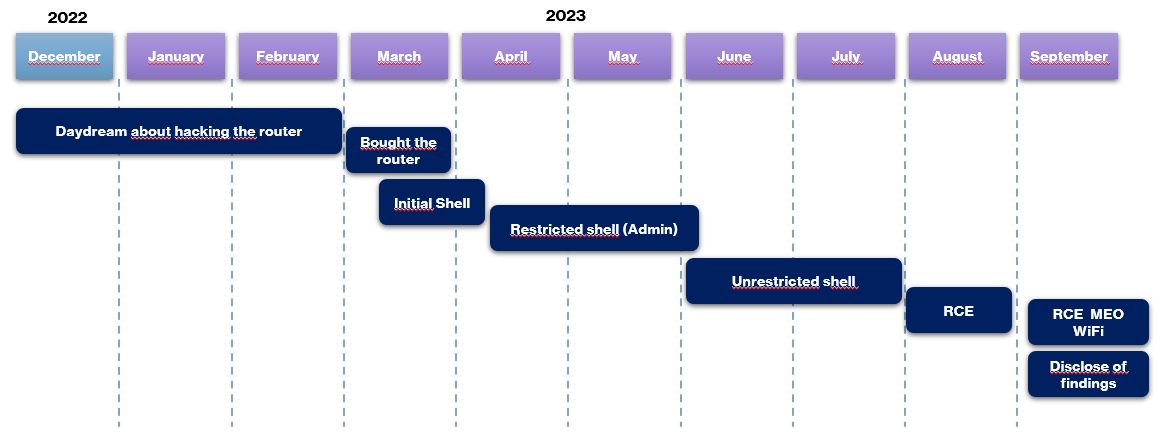
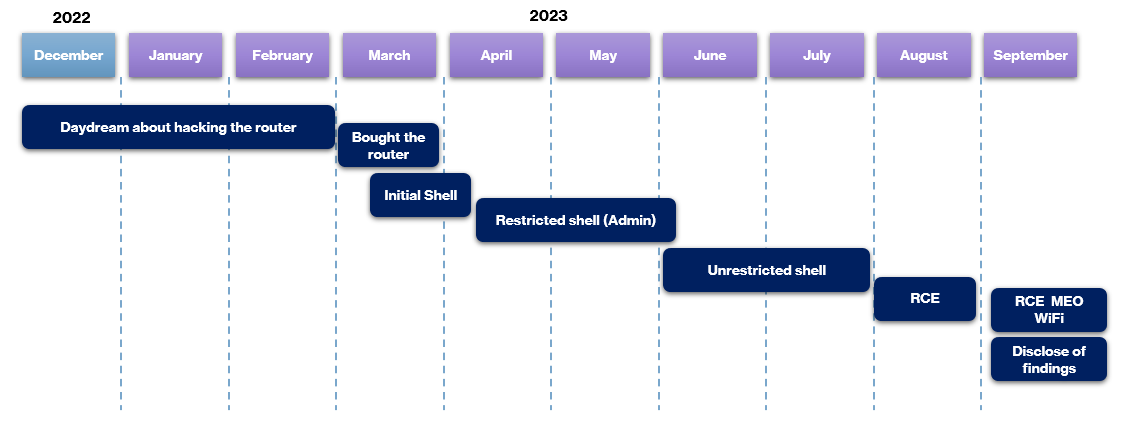
changes

diff --git a/_layouts/default.html b/_layouts/default.html
@@ -1,7 +1,7 @@
 <!DOCTYPE html>
 <html>
   <head>
-    <title>{% if page.title %}{{ page.title }} – {% endif %}{{ site.name }} – {{ site.description }}</title>
+    <title>{% if page.title %}{{ page.title }} – {% endif %}{{ site.name }}</title>
     {% seo title=false %}
     {% include meta.html %}
 

diff --git a/_posts/2025-05-25-FiberGateway-GR241AG-Full-Exploit-Chain.md b/_posts/2025-05-25-FiberGateway-GR241AG-Full-Exploit-Chain.md
@@ -12,19 +12,32 @@ During the year of 2023 I've identified that it was possible to obtain full cont
 </p>
 
 ## Introduction
-In 2020, when I got out of my parents home, I needed an ISP subscription and I subscribed ([Meo](https://www.meo.pt/)) Internet service. When I received the router and connected to it via the web interface, I noticed that it was **not possible to modify the DNS server**. This was a bummer since I wanted to have a Raspberry Pi with [Pi-hole](https://pi-hole.net/) to monitor and block DNS requests and I didn't want to change the DNS server on all my devices. The solution was to put a router in front of the ISP router, but that costs money and I don't like to spend money 💸
-In 2022, I decided that I was going to look at [OLX](https://www.olx.pt/) for a second hand **FiberGateway GR241AG** router, since I didn't want to to buy one from the ISP (+100 euros) or breach the ISP contract which states that you cannot tamper the router in any way. I got one for 10 euros. 🤑
+
+In **2020**, when I got out of my parents home, I needed an ISP subscription and I subscribed ([Meo](https://www.meo.pt/)) Internet service. When I received the router and connected to it via the web interface, I noticed that it was **not possible to modify the DNS server**. This was a bummer since I wanted to have a Raspberry Pi with [Pi-hole](https://pi-hole.net/) to monitor and block DNS requests and I didn't want to change the DNS server on all my devices. The solution was to put a router in front of the ISP router, but that costs money and I don't like to spend money 💸
+
+In **2022**, I decided that I was going to look at [OLX](https://www.olx.pt/) for a second hand **FiberGateway GR241AG** router, since I didn't want to to buy one from the ISP (+100 euros) or breach the ISP contract which states that you cannot tamper the router in any way. I got one for 10 euros. 🤑
+
 ## Accessing a serial interface
+
 I disassembled the router and noticed right way the **UART** and **JTAG** interfaces. Using a multimeter I identified the **UART** pinouts and connected a [Bus Pirate](http://dangerousprototypes.com/docs/Bus_Pirate) to the **UART** interface.
+
 <p align="middle">
   <a href="/images/fibergateway/uart2.png"><img src="/images/fibergateway/uart2.png" width="46%" /></a>
   <a href="/images/fibergateway/uart.png"><img src="/images/fibergateway/uart.png" width="40%" /></a> 
 </p>
-After connecting successfully to the **UART** interface, verified that the **U-Boot** was password protected. Also, after the initial boot, the interface requires username/password authentication. The credential  **meo**/**meo** could be used, but it would return the same restricted shell that can be accessed via SSH or Telnet.
+
+After connecting successfully to the **UART** interface, verified that the **U-Boot** was password protected. Also, after the initial boot, the interface requires **username**/**password** authentication. The credential  **meo**/**meo** could be used, but it would return the same restricted shell that can be accessed via SSH or Telnet.
 
 ## Root access via serial interface
-What I'm about to share may sound like something straight out of a movie, but that's what happened. At that time, I was recovering files from an HDD disk, which was near the router. It seems that the HDD vibration did some kind of **fault injection**, because of the Bus Pirate cables not being soldered/pinned to the board or a loose component. When this occurred during boot, a segmentation fault would occur and the boot process would drop to a **root shell**. After that I would just need to run the init scripts so the watchdog process that was in place did not kill the shell in 60 seconds.
-**Sometimes luck is a very important factor 🍀**
+What I'm about to share may sound like something straight out of a movie, but that's what happened. At that time, I was recovering files from an HDD disk, which was near the router. 
+
+It seems that the HDD vibration did some kind of **fault injection**, because of the Bus Pirate cables not being soldered/pinned to the board or a loose component. When this occurred during boot, a segmentation fault would occur and the boot process would drop to a **root shell**. 
+
+After that I would just need to run the init scripts so the watchdog process that was in place did not kill the shell in 60 seconds.
+
+<p align="middle">
+<b>Sometimes luck is a very important factor 🍀</b>
+</p>
 
 [![](/images/fibergateway/uart-shell.png){: style="display:block; margin: 0 auto"  width="70%"}](/images/fibergateway/uart-shell.png)
 
@@ -48,8 +61,12 @@ Using this password I was able to obtain shell access with the **admin** user. T
 [![](/images/fibergateway/adminshell.png){: style="display:block; margin: 0 auto"  width="60%"}](/images/fibergateway/adminshell.png)
 
 I accomplished my goal of being able to modify the **DNS** server of my router (without the need of connecting to **UART**). But I wanted more! 
+
 ## Unrestricted shell 
-While I was trying to find a way to obtain an unrestricted shell, **unfortunately the router bricked from all the smacking 😭**. I waited for weeks until one was available again at [OLX](https://www.olx.pt/). Now I needed to be more careful, I didn't disassembled the router to connect via the **UART** interface to obtain a **root shell** to reduce the probability of bricking it. Since I had the **admin** password, I decided to try to identify a vulnerability in the restricted shell that would allow me to obtain an unrestricted shell.
+
+While I was trying to find a way to obtain an unrestricted shell, **unfortunately the router bricked from all the smacking 😭**. I waited for weeks until one was available again at [OLX](https://www.olx.pt/). Now I needed to be more careful, I didn't disassembled the router to connect via the **UART** interface to obtain a **root shell** to reduce the probability of bricking it. 
+
+Since I had the **admin** password, I decided to try to identify a vulnerability in the **restricted shell** that would allow me to obtain an **unrestricted shell**.
 
 I started looking for **command and parameter injection** vulnerabilities in the restricted shell commands. Most of the commands were protected against this type of vulnerabilities. However, I identified that the **tcpdump** command was vulnerable to **parameter injection**. 
 
@@ -73,7 +90,10 @@ And then open a **nc** listener and send a **UDP packet to port 1234** to trigge
 [![](/images/fibergateway/unrestrictedshell.png){: style="display:block; margin: 0 auto"  width="80%"}](/images/fibergateway/unrestrictedshell.png)
 
 ## Remote code execution
-This method still required physical access to the router, since I needed to use a PEN drive. I stopped testing for a few months and then remembered to revisit the **tcpdump** vulnerability. By looking at the **man page**, I saw something interesting. The **-z** parameter, if used with **-G** will execute the **postrotate-command** using the save file as input.
+
+This method still required physical access to the router, since I needed to use a PEN drive. I stopped testing for a few months and then remembered to revisit the **tcpdump** vulnerability. 
+
+By looking at the **man page**, I saw something interesting. The **-z** parameter, if used with **-G** will execute the **postrotate-command** using the save file as input.
 
 [![](/images/fibergateway/postrotate.png){: style="display:block; margin: 0 auto"  width="60%"}](/images/fibergateway/postrotate.png)
 
@@ -82,6 +102,7 @@ This allowed to send the command to be executed via the network and thus **remov
 [![](/images/fibergateway/rs.png){: style="display:block; margin: 0 auto"  width="100%"}](/images/fibergateway/rs.png)
 
 ## MEO WiFi public wifi network
+
 This public wifi network comes **enabled by default** and can only be disabled by calling the support. It is used by **MEO** users to connect to the Internet anywhere in Portugal. More than [1.600.000](https://www.meo.pt/servicos/movel/wifi/vantagens) of these networks are available in Portugal. This network works in bridge mode, connecting the clients to the MEO network.
 
 Since I had root access, I identified that most of the services are available on all interfaces. I also identified that the interface of the **MEO Wifi** network only has IPv6 configured. **I tried to access the router web interface using the IPv6 address via the MEO WiFi network and it worked! 😮**  
@@ -114,10 +135,11 @@ The full exploit chain would consist in the following:
 
 Also, I've created two **Python** scripts. One that performs the **full exploit** chain described above and the other just dumps the **WPA2** keys of the private wifi interface.
 <p align="middle">
-<iframe width="560" height="315" src="https://www.youtube.com/embed/vP4MzWd5kbw?si=tGY56ZjddcLdpglo" title="YouTube video player" frameborder="0" allow="accelerometer; autoplay; clipboard-write; encrypted-media; gyroscope; picture-in-picture; web-share" referrerpolicy="strict-origin-when-cross-origin" allowfullscreen></iframe>
+<iframe width="100%" style="aspect-ratio: 16 / 9;" src="https://www.youtube.com/embed/vP4MzWd5kbw?si=tGY56ZjddcLdpglo" title="YouTube video player" frameborder="0" allow="accelerometer; autoplay; clipboard-write; encrypted-media; gyroscope; picture-in-picture; web-share" referrerpolicy="strict-origin-when-cross-origin" allowfullscreen></iframe>
 </p>
 
-## Impact
+## Security Impact
+
 The exploitation of the router via the **MEO WiFi** network, would allow anyone in wifi range of one of the **+1.600.000** routers to perform the following:
 [![](/images/fibergateway/nuke.gif){: style="float: right" width="25%"}](/images/fibergateway/nuke.gif)
 - DNS Hijacking
@@ -128,13 +150,18 @@ The exploitation of the router via the **MEO WiFi** network, would allow anyone 
 - Denial-of-service
 
 ## Disclosure
+
 I reported all the findings to Centro Nacional de Cibersegurança ([CNCS](https://www.cncs.gov.pt/)) and they contacted the [Meo](https://www.meo.pt/) CERT. **One week later it was no longer possible to obtain remote code execution via the MEO WiFi network interface**. 👏
-The rest of the vulnerabilities were fixed in the next months, however I could not test them since they changed the admin password. 😅
+
+The rest of the vulnerabilities were fixed in the next months, however I could not test them since they changed the admin password.
+I didn't received any bounty, but at least they let me publish this. 🫠
 
 ## Timeline
-[![](/images/fibergateway/timeline.png){: style="display:block; margin: 0 auto"  width="100%"}](/images/fibergateway/timeline.png)
+
+[![](/images/fibergateway/timeline.png){: style="display:block; margin: 0 auto"  width="80%"}](/images/fibergateway/timeline.png)
 
 ## Bonus
+
 I also identified the following vulnerabilities that were not useful for the exploit chain:
 - **Arbitrary write** via output redirect in the **nslookup** command
 [![](/images/fibergateway/dns.png){: style="display:block; margin: 0 auto"  width="60%"}](/images/fibergateway/dns.png)

diff --git a/_pages/about.md b/_pages/about.md
@@ -4,26 +4,4 @@ title: About
 permalink: /about/
 ---
 
-[Reverie](https://github.com/amitmerchant1990/reverie) is a Jekyll theme which is simple and opinionated. It's actually a fork of [jekyll-now](https://github.com/barryclark/jekyll-now) with some additional features and personal touches which I've implemented to suit my needs for [my blog](https://www.amitmerchant.com).
-
-This is a plug-and-play Jekyll theme which you can use on GitHub Pages without even setting up a local environment.
-
-## Features
-
-- Command-line free fork-first workflow, using GitHub.com to create, customize and post to your blog
-- Fully responsive and mobile optimized base theme
-- Sass/Coffeescript support using Jekyll 2.0
-- Free hosting on your GitHub Pages user site
-- All the SEO goodies comes in-built
-- Markdown blogging
-- Syntax highlighting using Pygments
-    - [Dracula syntax theme](https://draculatheme.com/) included
-- Disqus commenting
-- Google Analytics integration
-- Fuzzy search across blog posts
-- Pagination of posts works out-of-the-box.
-- Categorize posts out-of-the box
-- RSS Feed
-- In-built sitemap
-
-Learn more about it [here](https://github.com/amitmerchant1990/reverie) on how to get started.
+TBD
